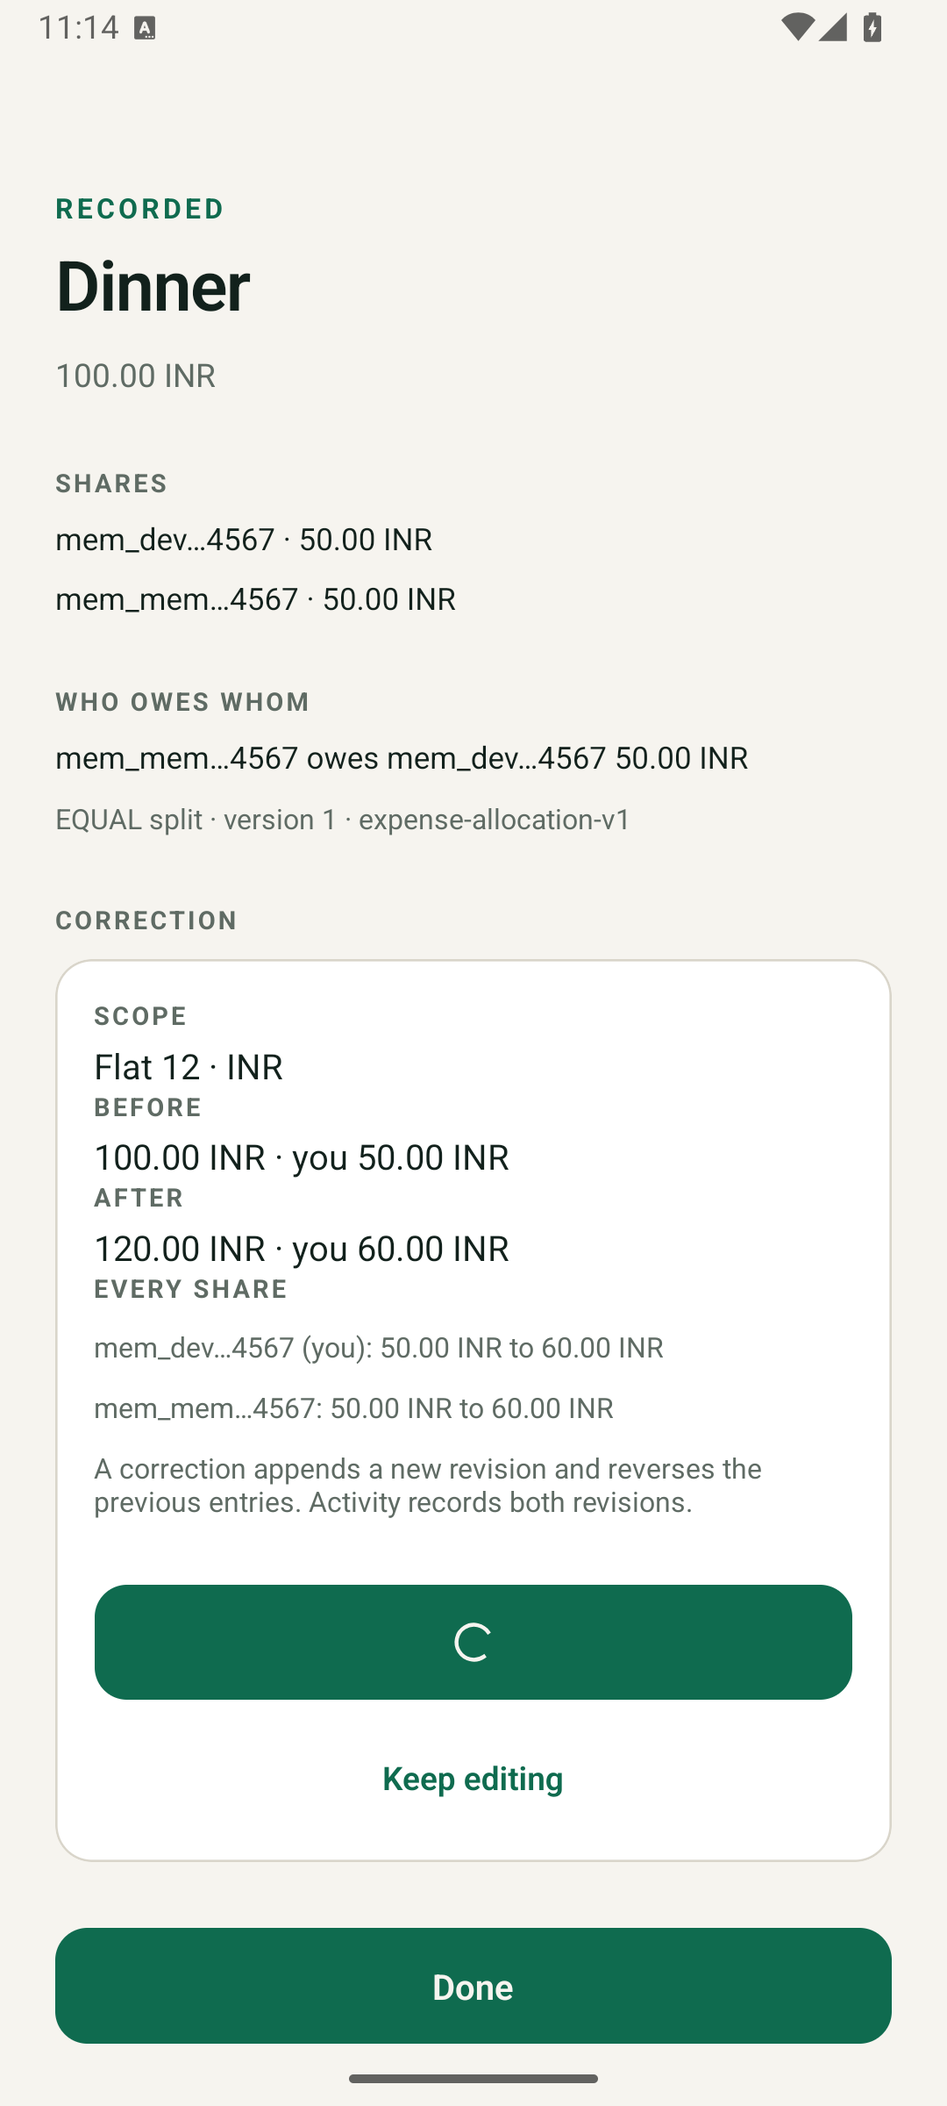
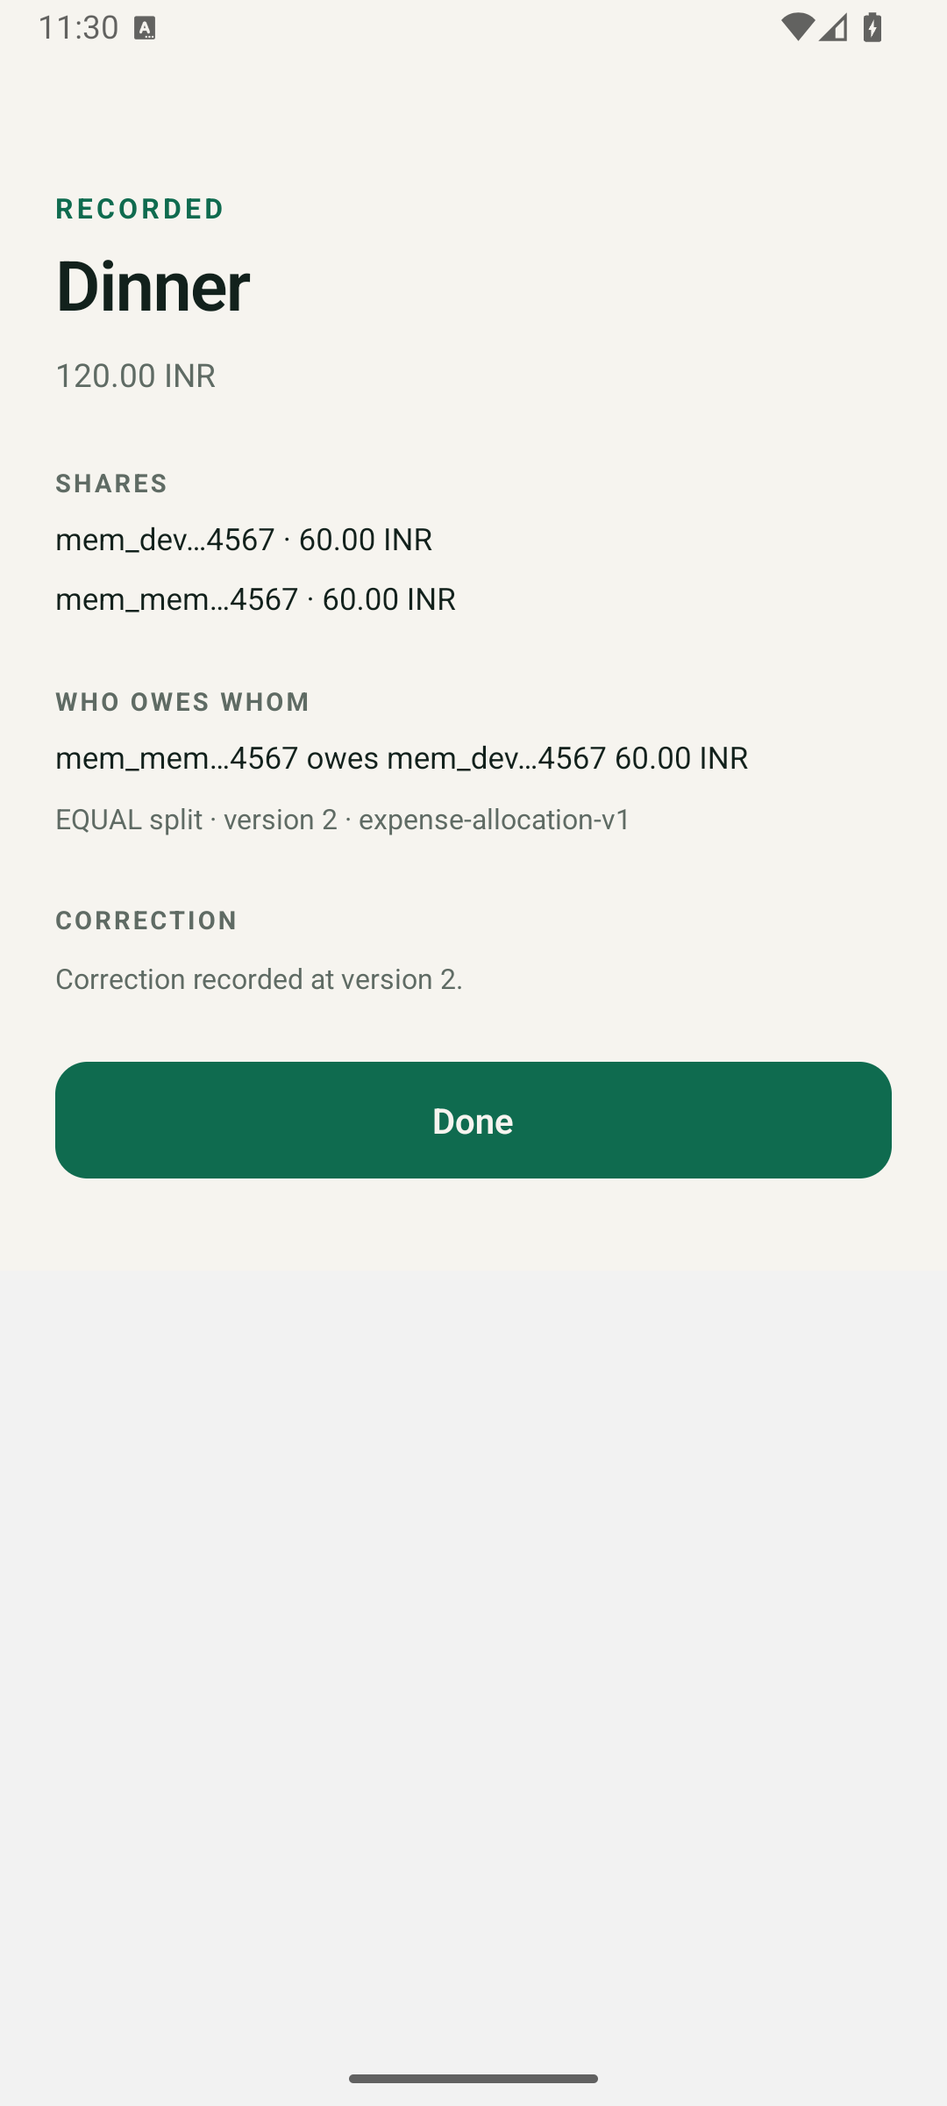
fix(ledger,mobile): harden Activity and command retries
Keep Activity from failing a financial command by dropping contact-looking
text, return the newest 500 entries in occurrence order, retain correction
and settlement command keys across ambiguous retries, and make Activity
tests order-independent. Move the settlement entry and void-guard schema
into V8 so applied V7 databases keep their checksum, and document the
immutable Expense anchor as non-authoritative.

diff --git a/apps/mobile/app/expense/new.tsx b/apps/mobile/app/expense/new.tsx
@@ -28,6 +28,7 @@ import {
   equalShares,
   markCorrectionStale,
   reReviewCorrection,
+  retryCorrection,
   reviewCorrection,
   submitCorrection,
   type CorrectionDraft
@@ -151,7 +152,8 @@ export default function NewExpenseScreen() {
     }
     setCorrecting(true);
     setCorrectionError(null);
-    const key = `${Date.now()}-${Math.random().toString(36).slice(2)}`;
+    const key = draft.idempotencyKey
+      ?? `${Date.now()}-${Math.random().toString(36).slice(2)}`;
     const submitting = submitCorrection(draft, key);
     setDraft(submitting);
     try {
@@ -193,10 +195,13 @@ export default function NewExpenseScreen() {
         }
       } else if (failure instanceof ExpenseHttpError && failure.code === 'idempotency_conflict') {
         setDraft(editCorrection(submitting, {}));
+        setCorrectionStep('edit');
         setCorrectionError('This draft was already sent with different details. Review it again.');
       } else {
-        setDraft(editCorrection(submitting, {}));
-        setCorrectionError('We could not correct the expense. Your draft is kept; try again.');
+        setDraft(retryCorrection(submitting));
+        setCorrectionStep('review');
+        setCorrectionError(
+          'We could not confirm the correction. Your draft is kept; retry with the same command.');
       }
     } finally {
       setCorrecting(false);

diff --git a/apps/mobile/app/settlement/new.tsx b/apps/mobile/app/settlement/new.tsx
@@ -273,6 +273,7 @@ export default function NewSettlementScreen() {
             key={membership.memberId}
             accessibilityRole="button"
             onPress={() => {
+              if (membership.memberId === memberId) return;
               setMemberId(membership.memberId);
               idempotencyKey.current = null;
               occurredAt.current = null;
@@ -293,6 +294,7 @@ export default function NewSettlementScreen() {
             key={membership.memberId}
             accessibilityRole="button"
             onPress={() => {
+              if (membership.memberId === payeeId) return;
               setPayeeId(membership.memberId);
               idempotencyKey.current = null;
               occurredAt.current = null;
@@ -310,9 +312,11 @@ export default function NewSettlementScreen() {
       <TextInput
         keyboardType="decimal-pad"
         onChangeText={(value) => {
+          if (value !== amount) {
+            idempotencyKey.current = null;
+            occurredAt.current = null;
+          }
           setAmount(value);
-          idempotencyKey.current = null;
-          occurredAt.current = null;
         }}
         placeholder="0.00"
         placeholderTextColor={MUTED}

diff --git a/apps/mobile/src/drafts.test.ts b/apps/mobile/src/drafts.test.ts
@@ -10,6 +10,7 @@ import {
   markCorrectionStale,
   reReviewCorrection,
   reviewCorrection,
+  retryCorrection,
   submitCorrection
 } from './drafts';
 
@@ -46,6 +47,15 @@ test('a stale response preserves fields and refreshes the source revision', () =
   assert.equal(stale.idempotencyKey, undefined);
   assert.equal(reReviewCorrection(stale).state, 'readyToReview');
   assert.throws(() => reReviewCorrection(draft));
+});
+
+test('an ambiguous failure keeps the command key for the retry', () => {
+  const submitting = submitCorrection(reviewCorrection(draft), 'key-1');
+  const retry = retryCorrection(submitting);
+  assert.equal(retry.state, 'readyToReview');
+  assert.equal(retry.idempotencyKey, 'key-1');
+  assert.equal(submitCorrection(retry, 'ignored').idempotencyKey, 'key-1');
+  assert.throws(() => retryCorrection(draft));
 });
 
 test('acceptance and validation outcomes are terminal for the send', () => {

diff --git a/apps/mobile/src/drafts.ts b/apps/mobile/src/drafts.ts
@@ -65,6 +65,14 @@ export function submitCorrection(draft: CorrectionDraft, key: string): Correctio
   return { ...draft, state: 'submitting', idempotencyKey: draft.idempotencyKey ?? key };
 }
 
+/** An ambiguous failure keeps the key so the retry replays the same command. */
+export function retryCorrection(draft: CorrectionDraft): CorrectionDraft {
+  if (draft.state !== 'submitting') {
+    throw new Error('Only a submitted draft can be retried.');
+  }
+  return { ...draft, state: 'readyToReview' };
+}
+
 export function acceptCorrection(draft: CorrectionDraft): CorrectionDraft {
   return { ...draft, state: 'accepted' };
 }

diff --git a/services/ledger/src/test/java/com/dutch/ledger/expense/CorrectionControllerTest.java b/services/ledger/src/test/java/com/dutch/ledger/expense/CorrectionControllerTest.java
@@ -10,6 +10,7 @@ import static org.springframework.test.web.servlet.request.MockMvcRequestBuilder
 import static org.springframework.test.web.servlet.request.MockMvcRequestBuilders.post;
 import static org.springframework.test.web.servlet.result.MockMvcResultMatchers.jsonPath;
 import static org.springframework.test.web.servlet.result.MockMvcResultMatchers.status;
+import static org.hamcrest.Matchers.contains;
 
 import com.dutch.ledger.TestGroupConfiguration;
 import com.jayway.jsonpath.JsonPath;
@@ -58,10 +59,12 @@ class CorrectionControllerTest {
 
         mockMvc.perform(get("/api/v1/groups/" + groupId + "/activity").with(as(ADMIN_SUBJECT)))
                 .andExpect(status().isOk())
-                .andExpect(jsonPath("$.data[1].action").value("EXPENSE_CORRECTED"))
-                .andExpect(jsonPath("$.data[1].details.fromRevision").value("1"))
-                .andExpect(jsonPath("$.data[1].details.toRevision").value("2"))
-                .andExpect(jsonPath("$.data[1].details.totalMinorUnits").value("120"));
+                .andExpect(jsonPath("$.data[?(@.action == 'EXPENSE_CORRECTED')].details.totalMinorUnits")
+                        .value(contains("120")))
+                .andExpect(jsonPath("$.data[?(@.action == 'EXPENSE_CORRECTED')].details.fromRevision")
+                        .value(contains("1")))
+                .andExpect(jsonPath("$.data[?(@.action == 'EXPENSE_CORRECTED')].details.toRevision")
+                        .value(contains("2")));
     }
 
     @Test
@@ -76,6 +79,12 @@ class CorrectionControllerTest {
                         .contentType(MediaType.APPLICATION_JSON)
                         .content(replacementJson(120)))
                 .andExpect(status().isOk());
+
+        mockMvc.perform(get("/api/v1/groups/" + groupId + "/expenses/" + expenseId)
+                        .with(as(ADMIN_SUBJECT)))
+                .andExpect(status().isOk())
+                .andExpect(jsonPath("$.data.revision").value(2))
+                .andExpect(jsonPath("$.data.totalMinorUnits").value(120));
 
         mockMvc.perform(post(path).with(as(ADMIN_SUBJECT))
                         .header("Idempotency-Key", "correction-stale")
@@ -95,8 +104,8 @@ class CorrectionControllerTest {
         mockMvc.perform(get("/api/v1/groups/" + groupId + "/activity").with(as(ADMIN_SUBJECT)))
                 .andExpect(status().isOk())
                 .andExpect(jsonPath("$.data.length()").value(2))
-                .andExpect(jsonPath("$.data[1].action").value("EXPENSE_CORRECTED"))
-                .andExpect(jsonPath("$.data[1].targetRevision").value(2));
+                .andExpect(jsonPath("$.data[?(@.action == 'EXPENSE_CORRECTED')].targetRevision")
+                        .value(contains(2)));
     }
 
     @Test

diff --git a/services/ledger/src/test/java/com/dutch/ledger/expense/ExpenseControllerTest.java b/services/ledger/src/test/java/com/dutch/ledger/expense/ExpenseControllerTest.java
@@ -11,6 +11,7 @@ import static org.springframework.test.web.servlet.request.MockMvcRequestBuilder
 import static org.springframework.test.web.servlet.request.MockMvcRequestBuilders.post;
 import static org.springframework.test.web.servlet.result.MockMvcResultMatchers.jsonPath;
 import static org.springframework.test.web.servlet.result.MockMvcResultMatchers.status;
+import static org.hamcrest.Matchers.contains;
 
 import com.dutch.ledger.TestGroupConfiguration;
 import static org.assertj.core.api.Assertions.assertThat;
@@ -125,6 +126,36 @@ class ExpenseControllerTest {
         java.util.List<?> entries = JsonPath.read(second, "$.data.entries");
         assertThat(firstId).isEqualTo(secondId);
         assertThat(entries.toString()).contains("50");
+
+        mockMvc.perform(get("/api/v1/groups/" + groupId + "/activity").with(as(ADMIN_SUBJECT)))
+                .andExpect(status().isOk())
+                .andExpect(jsonPath("$.data.length()").value(1))
+                .andExpect(jsonPath("$.data[?(@.action == 'EXPENSE_CREATED')].targetId")
+                        .value(contains(firstId)));
+    }
+
+    @Test
+    void a_contact_looking_description_never_blocks_the_expense_or_enters_activity() throws Exception {
+        String groupId = createGroup();
+        String body = """
+                {"description":"Airbnb receipt to ana@example.test","totalMinorUnits":100,
+                 "currency":"INR","splitMethod":"EQUAL",
+                 "payers":[{"memberId":"%s","minorUnits":100}],
+                 "participants":["%s","%s"],
+                 "occurredAt":"2026-11-01T00:00:00Z"}
+                """.formatted(ADMIN.value(), ADMIN.value(), MEMBER.value());
+
+        mockMvc.perform(post("/api/v1/groups/" + groupId + "/expenses").with(as(ADMIN_SUBJECT))
+                        .header("Idempotency-Key", "expense-contact")
+                        .contentType(MediaType.APPLICATION_JSON)
+                        .content(body))
+                .andExpect(status().isOk());
+
+        mockMvc.perform(get("/api/v1/groups/" + groupId + "/activity").with(as(ADMIN_SUBJECT)))
+                .andExpect(status().isOk())
+                .andExpect(jsonPath("$.data[0].action").value("EXPENSE_CREATED"))
+                .andExpect(jsonPath("$.data[0].details.description").doesNotExist())
+                .andExpect(jsonPath("$.data[0].details.totalMinorUnits").value("100"));
     }
 
     @Test

diff --git a/services/ledger/src/test/java/com/dutch/ledger/settlement/SettlementControllerTest.java b/services/ledger/src/test/java/com/dutch/ledger/settlement/SettlementControllerTest.java
@@ -10,6 +10,7 @@ import static org.springframework.test.web.servlet.request.MockMvcRequestBuilder
 import static org.springframework.test.web.servlet.request.MockMvcRequestBuilders.post;
 import static org.springframework.test.web.servlet.result.MockMvcResultMatchers.jsonPath;
 import static org.springframework.test.web.servlet.result.MockMvcResultMatchers.status;
+import static org.hamcrest.Matchers.contains;
 
 import com.dutch.ledger.TestGroupConfiguration;
 import com.jayway.jsonpath.JsonPath;
@@ -61,9 +62,10 @@ class SettlementControllerTest {
 
         mockMvc.perform(get("/api/v1/groups/" + groupId + "/activity").with(as(ADMIN_SUBJECT)))
                 .andExpect(status().isOk())
-                .andExpect(jsonPath("$.data[0].action").value("SETTLEMENT_RECORDED"))
-                .andExpect(jsonPath("$.data[0].targetId").value(settlementId))
-                .andExpect(jsonPath("$.data[0].details.totalMinorUnits").value("100"));
+                .andExpect(jsonPath("$.data[?(@.action == 'SETTLEMENT_RECORDED')].targetId")
+                        .value(contains(settlementId)))
+                .andExpect(jsonPath("$.data[?(@.action == 'SETTLEMENT_RECORDED')].details.totalMinorUnits")
+                        .value(contains("100")));
 
         String voidKey = "void-" + UUID.randomUUID();
         mockMvc.perform(post("/api/v1/groups/" + groupId + "/settlements/" + settlementId + "/void")
@@ -88,8 +90,8 @@ class SettlementControllerTest {
         mockMvc.perform(get("/api/v1/groups/" + groupId + "/activity").with(as(ADMIN_SUBJECT)))
                 .andExpect(status().isOk())
                 .andExpect(jsonPath("$.data.length()").value(2))
-                .andExpect(jsonPath("$.data[1].action").value("SETTLEMENT_VOIDED"))
-                .andExpect(jsonPath("$.data[1].details.status").value("VOIDED"));
+                .andExpect(jsonPath("$.data[?(@.action == 'SETTLEMENT_VOIDED')].details.status")
+                        .value(contains("VOIDED")));
     }
 
     @Test

diff --git a/services/ledger/src/main/java/com/dutch/ledger/expense/CorrectionService.java b/services/ledger/src/main/java/com/dutch/ledger/expense/CorrectionService.java
@@ -90,14 +90,18 @@ public class CorrectionService {
         Expense replacement = ExpenseCommandFactory.create(group, current.id(), current.revision() + 1, request);
         ExpenseCorrection correction = ExpenseHistory.of(current).correct(replacement, actor, now);
         corrections.save(correction);
+        java.util.Map<String, String> details = new java.util.HashMap<>();
+        String safeDescription = ActivityEntry.contactFree(replacement.description());
+        if (safeDescription != null) {
+            details.put("description", safeDescription);
+        }
+        details.put("totalMinorUnits", Long.toString(replacement.totalMinorUnits()));
+        details.put("currency", replacement.currency());
+        details.put("fromRevision", Long.toString(current.revision()));
+        details.put("toRevision", Long.toString(replacement.revision()));
         activity.append(new ActivityEntry("act_" + UUID.randomUUID().toString().replace("-", ""),
                 scopeId(group, current.currency()), actor, ActivityAction.EXPENSE_CORRECTED,
-                expenseId, replacement.revision(), now, Map.of(
-                "description", replacement.description(),
-                "totalMinorUnits", Long.toString(replacement.totalMinorUnits()),
-                "currency", replacement.currency(),
-                "fromRevision", Long.toString(current.revision()),
-                "toRevision", Long.toString(replacement.revision()))));
+                expenseId, replacement.revision(), now, details));
 
         ExpenseView view = ExpenseView.from(replacement);
         idempotency.complete(actor.value(), COMMAND, idempotencyKey, serialize(view));

diff --git a/services/ledger/src/main/java/com/dutch/ledger/expense/ExpenseService.java b/services/ledger/src/main/java/com/dutch/ledger/expense/ExpenseService.java
@@ -15,7 +15,6 @@ import java.nio.charset.StandardCharsets;
 import java.security.MessageDigest;
 import java.security.NoSuchAlgorithmException;
 import java.time.Instant;
-import java.util.Map;
 import java.util.Objects;
 import java.util.Optional;
 import java.util.UUID;
@@ -79,12 +78,17 @@ public class ExpenseService {
         Expense expense = build(group, request);
         expenses.save(expense);
         Instant now = Instant.now();
+        java.util.Map<String, String> details = new java.util.HashMap<>();
+        String safeDescription = ActivityEntry.contactFree(expense.description());
+        if (safeDescription != null) {
+            details.put("description", safeDescription);
+        }
+        details.put("totalMinorUnits", Long.toString(expense.totalMinorUnits()));
+        details.put("currency", expense.currency());
         activity.append(new ActivityEntry("act_" + UUID.randomUUID().toString().replace("-", ""),
                 "group:" + group.id().value() + ":" + group.currency(), actor,
                 ActivityAction.EXPENSE_CREATED, expense.id().value(), expense.revision(), now,
-                Map.of("description", expense.description(),
-                        "totalMinorUnits", Long.toString(expense.totalMinorUnits()),
-                        "currency", expense.currency())));
+                details));
         ExpenseView view = ExpenseView.from(expense);
         idempotency.complete(actor.value(), COMMAND, idempotencyKey, serialize(view));
         return view;

diff --git a/services/ledger/src/main/java/com/dutch/ledger/activity/JdbcActivityRepository.java b/services/ledger/src/main/java/com/dutch/ledger/activity/JdbcActivityRepository.java
@@ -41,11 +41,11 @@ public class JdbcActivityRepository implements ActivityRepository {
 
     @Override
     public List<ActivityEntry> forScope(String scopeId) {
-        return jdbc.query("""
+        java.util.List<ActivityEntry> entries = jdbc.query("""
                 SELECT activity_id, scope_id, actor_member_id, action, target_id,
                     target_revision, occurred_at, details::text AS details
                 FROM activity_entry WHERE scope_id = ?
-                ORDER BY occurred_at, activity_id
+                ORDER BY occurred_at DESC, activity_id DESC
                 LIMIT 500
                 """, (result, index) -> new ActivityEntry(
                 result.getString("activity_id"),
@@ -57,6 +57,8 @@ public class JdbcActivityRepository implements ActivityRepository {
                 result.getLong("target_revision"),
                 result.getTimestamp("occurred_at").toInstant(),
                 readDetails(result.getString("details"))), scopeId);
+        java.util.Collections.reverse(entries);
+        return java.util.List.copyOf(entries);
     }
 
     private String details(ActivityEntry entry) {

diff --git a/services/ledger/src/main/java/com/dutch/ledger/activity/ActivityEntry.java b/services/ledger/src/main/java/com/dutch/ledger/activity/ActivityEntry.java
@@ -30,6 +30,14 @@ public record ActivityEntry(
             "description", "totalMinorUnits", "currency", "fromRevision", "toRevision",
             "status", "role");
 
+    /** Returns null when free text would leak a contact identifier. */
+    public static String contactFree(String value) {
+        if (value == null) {
+            return null;
+        }
+        return EMAIL.matcher(value).find() || PHONE.matcher(value).find() ? null : value;
+    }
+
     public ActivityEntry {
         if (activityId == null || !ID.matcher(activityId).matches()) {
             throw new IllegalArgumentException("activityId does not match the pinned format");

diff --git a/docs/wayfinder/s4/evidence/S4.md b/docs/wayfinder/s4/evidence/S4.md
@@ -21,7 +21,7 @@ Date: 2026-11-01
   evidence with a closed detail whitelist. Contact-identifier values are rejected, and
   a null actor represents Former member. Creation, correction, deletion, restoration,
   settlement, and membership actions are modeled.
-- **Persistence** (`V7`): correction, reversal, settlement, void, and Activity
+- **Persistence** (`V7`, `V8`): correction, reversal, settlement, void, and Activity
   tables with the evidence/immutability constraints; `JdbcExpenseCorrectionRepository`
   appends the replacement revision, reversal entries (linked to their original entry
   ids in `entry_reversal_link`), correction row, and rebuilt projection; `JdbcSettlementRepository` saves and voids a parent settlement;
@@ -78,7 +78,7 @@ TESTCONTAINERS_RYUK_DISABLED=true JAVA_HOME=/opt/homebrew/opt/openjdk@21 \
 ./gradlew :services:ledger:test
 ```
 
-- Ledger: 140 tests, 0 failures. New coverage:
+- Ledger: 141 tests, 0 failures. New coverage:
   - reversal entries cancel the original entries exactly,
   - a correction cannot change identity/group/currency or skip a revision,
   - a history advances and retains every correction,
@@ -103,15 +103,16 @@ TESTCONTAINERS_RYUK_DISABLED=true JAVA_HOME=/opt/homebrew/opt/openjdk@21 \
   - a correction with missing `Idempotency-Key`/`If-Match` is 400 and a cross-group
     correction is 404,
   - a same-key void replays the accepted void instead of conflicting,
-  - Expense creation records `EXPENSE_CREATED`, a member can read the latest revision,
-    and a non-member read is 404.
+  - Expense creation records `EXPENSE_CREATED` exactly once per command, a
+    contact-looking description neither fails the Expense nor enters Activity, a
+    member reads the latest revision after a correction, and a non-member read is 404.
 - Contract: the Ledger OpenAPI publishes the Expense read and settlement commands;
   `npm test` passes 13 contract tests.
-- Mobile: 59 tests, 0 failures; `npm run typecheck` and `npm run lint` pass. New
+- Mobile: 60 tests, 0 failures; `npm run typecheck` and `npm run lint` pass. New
   coverage: correction/settlement/activity parsing and headers, stale surfacing, and
   the draft transitions (review gate, key reuse, stale preservation, terminal states,
-  largest-remainder equal shares), the Expense read client, and Activity HTTP errors
-  and null-actor compatibility.
+  largest-remainder equal shares, retry key retention), the Expense read client, and
+  Activity HTTP errors and null-actor compatibility.
 
 ## Device evidence (Android)
 
@@ -169,6 +170,11 @@ states, and Local Draft behavior, not the live Ledger.
 - `Settlement` scope ids are validated as non-blank strings; the repository parses
   group scopes to derive the group and direct scopes to create a direct-pair stream.
   A shared canonical scope parser belongs with the persistence contract.
-- The mock API injects `stale_version` for a 999.00 correction as deterministic device
-  test scaffolding; it is not production behavior.
+- The mock API injects `stale_version` on the first 999.00 correction as deterministic
+  device test scaffolding; it is not production behavior.
+- The immutable `expense` anchor row still carries revision-1 descriptive columns
+  (`current_revision`, description, total). Every read resolves `expense_revision`, so
+  they are unused legacy evidence; a later migration should drop the duplicates.
+- Reversal-to-original links are paired positionally from the deterministic entry
+  order; pairing by debtor/creditor is a later hardening step.
 - Activity retention, pagination, and projection rules are later work.
